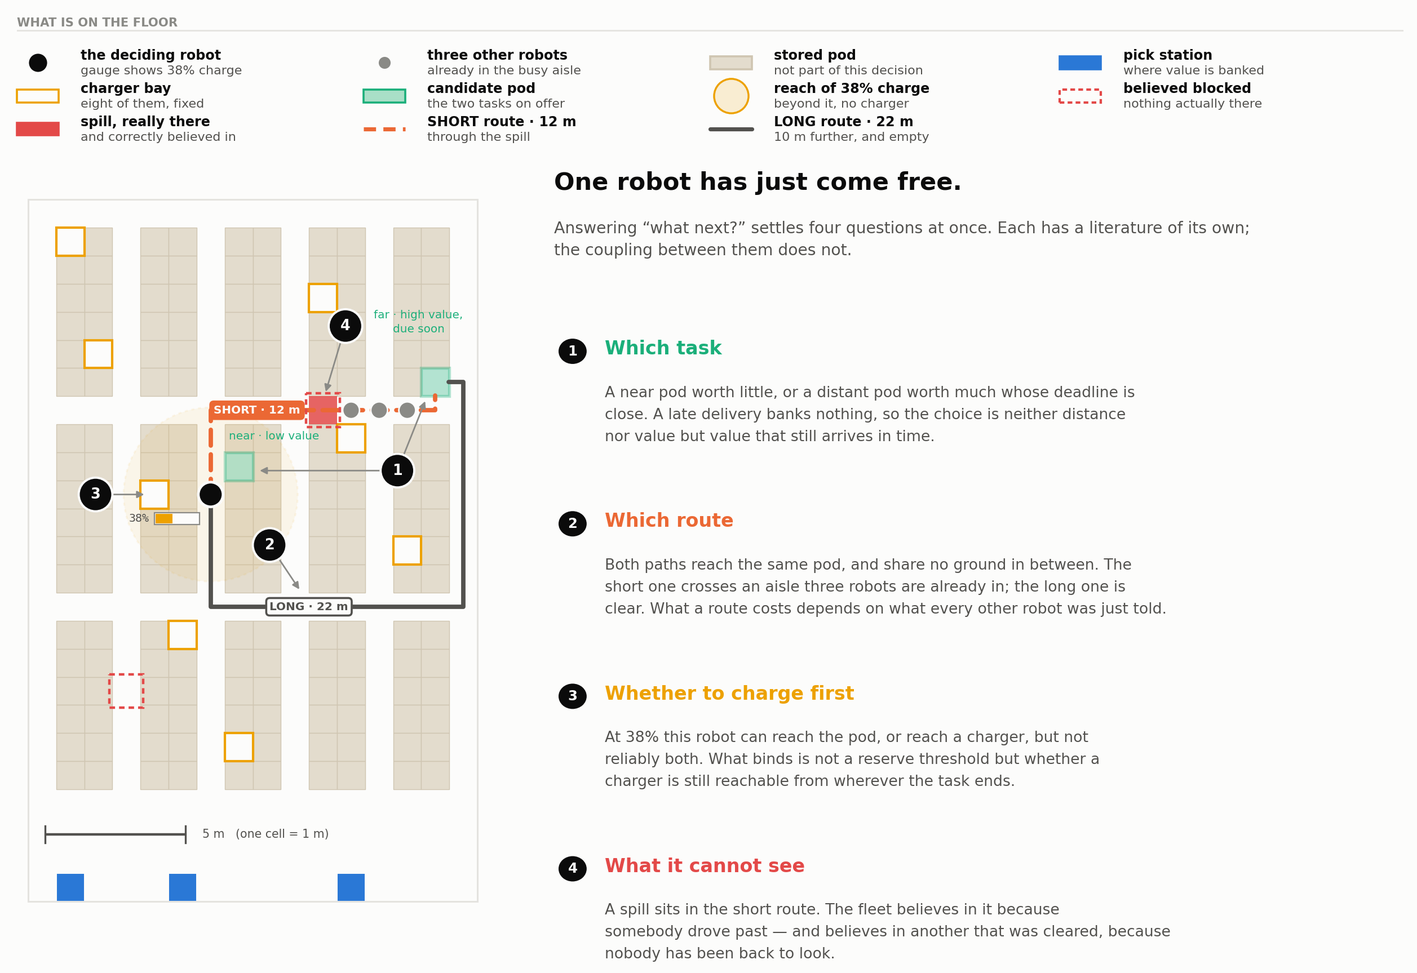
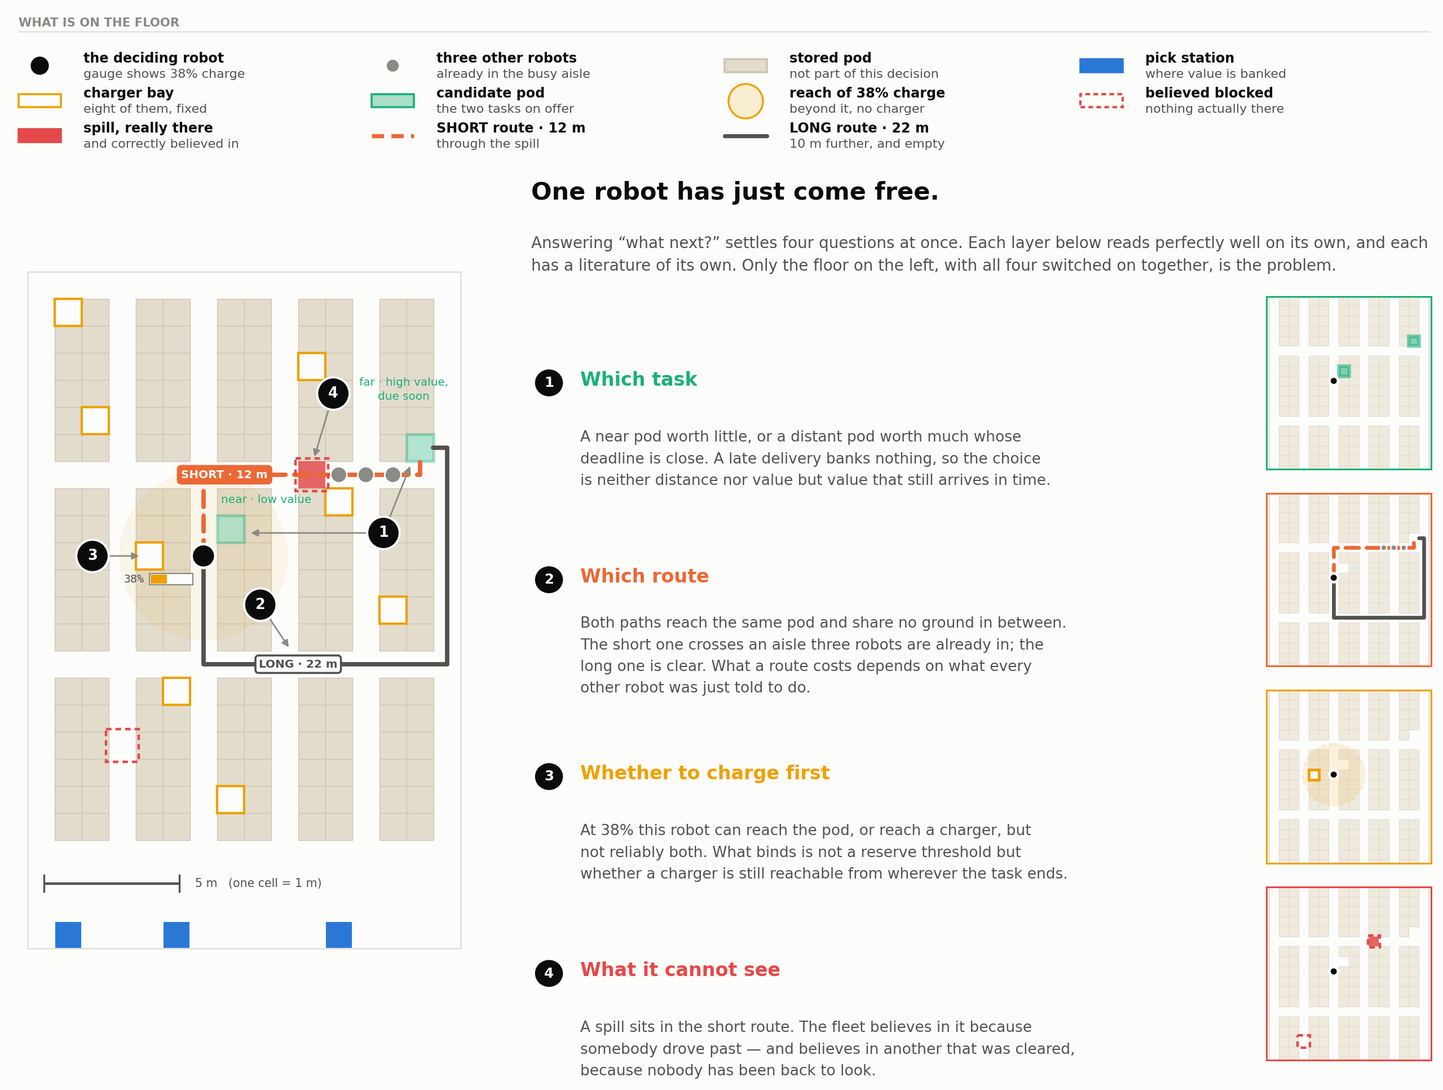
Figure 1: a layer view inside the one figure
The floor is now painted by a single function taking a set of layer names
(rack, zone, cells, tasks, belief, routes, robot, gauge, badges, plates), so
the composite and the per-question panels come from the same code and cannot
drift apart.

Each of the four questions on the right gains a small panel showing only its
own layer, over a ghosted floor, cropped to the region where anything
happens. That makes the figure argue its claim instead of asserting it: every
layer reads comfortably on its own -- each is a literature of its own -- and
only the large panel, with all four switched on at once, is the problem the
planner is actually handed.

Still one figure, one caption, one number in the register.

diff --git a/scripts/make_paper_figures.py b/scripts/make_paper_figures.py
@@ -345,21 +345,23 @@ def fig_coupled():
     vertical aisles every third column, cross-aisles at y = 0, 7, 14 and 21-23, three pick stations
     on the bottom row, eight charger bays. One cell is one metre.
 
-    The figure is built in named layers, lowest first, and nothing is drawn out of order:
+    The floor is drawn by ONE function, `floor(ax, show, ...)`, which paints a named subset of the
+    layers in a fixed order:
 
-        L_RACK   racks and the floor outline
-        L_ZONE   the reachable-charge disc
-        L_CELL   stations, bays, candidate pods, the spill
-        L_ROUTE  the two routes
-        L_MARK   robots and belief outlines
-        L_LEAD   badge leader arrows
-        L_BADGE  the numbered badges
-        L_PLATE  route name plates and the two pod tags
+        rack    racks and the floor outline          routes  the two routes
+        zone    the reachable-charge disc            robot   the deciding robot and its gauge
+        cells   stations and charger bays            badges  the numbered leaders
+        tasks   the two candidate pods               plates  route name plates and pod tags
+        belief  the spill, and the phantom
 
-    The two routes are disjoint. They share their first cell and their last and touch nowhere
-    else, which is possible only because the target pod at (14, 6) has two aisle faces -- the
-    cross-aisle above it and the right-hand aisle beside it. Every object type is named once in
-    the key across the top, so the floor itself carries almost no text.
+    The large panel asks for everything. Each of the four questions on the right also gets its own
+    small panel showing that question's layer ALONE, over a ghosted floor. That is the figure's
+    argument made visible: each layer is a literature of its own and reads perfectly well by itself;
+    only the large panel, where they are all switched on at once, shows what has to be decided.
+
+    The two routes are disjoint. They share their first cell and their last and touch nowhere else,
+    which is possible only because the target pod at (14, 6) has two aisle faces -- the cross-aisle
+    above it and the right-hand aisle beside it.
     """
     from matplotlib.patches import Rectangle, Circle, FancyArrowPatch
 
@@ -377,6 +379,10 @@ def fig_coupled():
     SPILL = (10, 7)         # a real obstruction, on the busy leg
     PHANTOM = (3, 17)       # believed blocked, actually clear
     OTHERS = [(11, 7), (12, 7), (13, 7)]
+    BAY = (4, 10)           # the nearest charger to the deciding robot
+
+    busy = [HOME, (6, 7), (14, 7), FAR]
+    clear = [HOME, (6, 14), (15, 14), (15, 6), FAR]
 
     def is_hw(x, y):
         return x in aisle_x or y in cross_y
@@ -384,110 +390,114 @@ def fig_coupled():
     def c(x, y):
         return (x + .5, y + .5)
 
-    fig = plt.figure(figsize=(12.6, 8.4))
-    kx = fig.add_axes([0.014, 0.850, 0.976, 0.140])     # object key, across the top
-    ax = fig.add_axes([0.010, 0.015, 0.348, 0.810])     # the floor
-    tx = fig.add_axes([0.392, 0.015, 0.600, 0.810])     # the four questions
+    def metres(pts):
+        return sum(abs(a[0] - b[0]) + abs(a[1] - b[1]) for a, b in zip(pts, pts[1:]))
+
+    M_BUSY, M_CLEAR = metres(busy), metres(clear)
+
+    # ------------------------------------------------------------------ one floor, many subsets
+    def floor(ax, show, ghost=False, crop=None):
+        """Paint the named layers, lowest first. `ghost` fades the racks so a single layer reads."""
+        rack_fc = "#efeade" if ghost else RACK
+        rack_ec = "#e5dfd0" if ghost else RACK_E
+        for y in range(H):
+            for x in range(W):
+                if not is_hw(x, y) and (x, y) not in (NEAR, FAR):
+                    ax.add_patch(Rectangle((x, y), 1, 1, fc=rack_fc, ec=rack_ec, lw=.5,
+                                           zorder=L_RACK))
+        ax.add_patch(Rectangle((0, 0), W, H, fc="none", ec=GRID, lw=1.1, zorder=L_CELL + 1))
+
+        if "zone" in show:
+            ax.add_patch(Circle(c(*HOME), 3.1, fc=C4, alpha=.07 if not ghost else .12, ec=C4,
+                                lw=1.2, ls=(0, (1.6, 2.0)), zorder=L_ZONE))
+        if "cells" in show:
+            for p in stations:
+                ax.add_patch(Rectangle(p, 1, 1, fc=C1, ec=SURFACE, lw=.7, zorder=L_CELL))
+            for p in bays:
+                ax.add_patch(Rectangle(p, 1, 1, fc=SURFACE, ec=C4, lw=1.5, zorder=L_CELL))
+        if "bay" in show:
+            ax.add_patch(Rectangle(BAY, 1, 1, fc=SURFACE, ec=C4, lw=1.8, zorder=L_CELL))
+        if "tasks" in show:
+            for p in (NEAR, FAR):
+                ax.add_patch(Rectangle(p, 1, 1, fc=C3, alpha=.55 if ghost else .32, ec=C3,
+                                       lw=2.4 if ghost else 1.9, zorder=L_CELL))
+        if "belief" in show:
+            ax.add_patch(Rectangle(SPILL, 1, 1, fc=BAD, alpha=.85, ec="none", zorder=L_CELL))
+            for p in (SPILL, PHANTOM):
+                ax.add_patch(Rectangle((p[0] - .1, p[1] - .1), 1.2, 1.2, fc="none", ec=BAD,
+                                       lw=1.6, ls=(0, (2.2, 1.6)), zorder=L_MARK))
+        if "routes" in show:
+            for pts, col, dashed in ((busy, C2, True), (clear, INK2, False)):
+                xy = [c(*p) for p in pts]
+                (ax_, ay_), (bx_, by_) = xy[-2], xy[-1]      # stop at the face, not the centre
+                xy[-1] = (bx_ + (0.48 if ax_ > bx_ else -0.48 if ax_ < bx_ else 0),
+                          by_ + (0.48 if ay_ > by_ else -0.48 if ay_ < by_ else 0))
+                ax.plot([p[0] for p in xy], [p[1] for p in xy], color=col,
+                        lw=2.8 if not ghost else 2.4,
+                        ls=(0, (3.6, 2.0)) if dashed else "solid", zorder=L_ROUTE,
+                        solid_capstyle="round", dash_capstyle="round")
+            for p in OTHERS:
+                ax.add_patch(Circle(c(*p), .30, fc=INK3, ec=SURFACE, lw=1.0, zorder=L_MARK))
+        if "robot" in show:
+            ax.add_patch(Circle(c(*HOME), .44, fc=INK, ec=SURFACE, lw=1.7, zorder=L_MARK + 1))
+        if "gauge" in show:
+            ax.add_patch(Rectangle((4.50, 11.15), 1.60, .42, fc=SURFACE, ec=INK3, lw=.8,
+                                   zorder=L_MARK + 1))
+            ax.add_patch(Rectangle((4.54, 11.19), 1.60 * .38, .34, fc=C4, ec="none",
+                                   zorder=L_MARK + 2))
+            ax.text(4.30, 11.36, "38%", ha="right", va="center", fontsize=7.2, color=INK2,
+                    zorder=L_MARK + 2, fontfamily="monospace")
+        if "badges" in show:
+            for n, at, tgt in ((1, (13.15, 9.65), (8.08, 9.65)),
+                               (2, (8.6, 12.3), (9.75, 14.02)),
+                               (3, (2.4, 10.5), (4.30, 10.50)),
+                               (4, (11.3, 4.5), (10.55, 7.00))):
+                ax.add_patch(FancyArrowPatch(at, tgt, arrowstyle="-|>", mutation_scale=9,
+                                             color=INK3, lw=1.0, shrinkA=10, shrinkB=3,
+                                             zorder=L_LEAD))
+                ax.add_patch(Circle(at, .60, fc=INK, ec=SURFACE, lw=1.4, zorder=L_BADGE))
+                ax.text(at[0], at[1], str(n), ha="center", va="center", color=SURFACE,
+                        fontsize=9.2, fontweight="bold", zorder=L_BADGE + 1)
+            ax.add_patch(FancyArrowPatch((13.15, 9.65), (14.20, 7.02), arrowstyle="-|>",
+                                         mutation_scale=9, color=INK3, lw=1.0, shrinkA=10,
+                                         shrinkB=3, zorder=L_LEAD))
+        if "plates" in show:
+            def plate(x, y, col, text, filled):
+                ax.text(x, y, text, fontsize=7.2, fontweight="bold", ha="center", va="center",
+                        color=SURFACE if filled else col, zorder=L_PLATE,
+                        bbox=dict(boxstyle="round,pad=0.30", fc=col if filled else SURFACE,
+                                  ec=col, lw=1.3))
+            plate(7.28, 7.50, C2, "SHORT · %d m" % M_BUSY, True)
+            plate(10.00, 14.50, INK2, "LONG · %d m" % M_CLEAR, False)
+            ax.text(7.15, 8.42, "near · low value", fontsize=7.2, color=C3, ha="left",
+                    va="center", zorder=L_PLATE)
+            ax.text(13.90, 4.35, "far · high value,\ndue soon", fontsize=7.2, color=C3,
+                    ha="center", va="center", zorder=L_PLATE, linespacing=1.4)
+        if "scale" in show:
+            ax.plot([0.6, 5.6], [22.6, 22.6], color=INK2, lw=1.6, solid_capstyle="butt",
+                    zorder=L_PLATE)
+            for xx in (0.6, 5.6):
+                ax.plot([xx, xx], [22.3, 22.9], color=INK2, lw=1.2, zorder=L_PLATE)
+            ax.text(6.2, 22.6, "5 m   (one cell = 1 m)", va="center", fontsize=7.4, color=INK2,
+                    zorder=L_PLATE)
+
+        x0, x1, y0, y1 = crop or (-0.6, W + 1.0, -0.6, H + 0.6)
+        ax.set_xlim(x0, x1)
+        ax.set_ylim(y1, y0)
+        ax.set_aspect("equal")
+        ax.axis("off")
+
+    fig = plt.figure(figsize=(12.8, 9.4))
+    kx = fig.add_axes([0.013, 0.856, 0.978, 0.132])     # object key, across the top
+    ax = fig.add_axes([0.008, 0.014, 0.330, 0.818])     # the whole floor, every layer on
+    tx = fig.add_axes([0.368, 0.014, 0.624, 0.818])     # the four questions
     for a in (kx, tx):
         a.axis("off")
         a.set_xlim(0, 1)
         a.set_ylim(0, 1)
 
-    # ================================================================ layer 1: racks and outline
-    for y in range(H):
-        for x in range(W):
-            if not is_hw(x, y) and (x, y) not in (NEAR, FAR):
-                ax.add_patch(Rectangle((x, y), 1, 1, fc=RACK, ec=RACK_E, lw=.5, zorder=L_RACK))
-    ax.add_patch(Rectangle((0, 0), W, H, fc="none", ec=GRID, lw=1.1, zorder=L_CELL + 1))
-
-    # ================================================================ layer 2: the reachable disc
-    ax.add_patch(Circle(c(*HOME), 3.1, fc=C4, alpha=.07, ec=C4, lw=1.2,
-                        ls=(0, (1.6, 2.0)), zorder=L_ZONE))
-
-    # ================================================================ layer 3: cells that matter
-    for p in stations:
-        ax.add_patch(Rectangle(p, 1, 1, fc=C1, ec=SURFACE, lw=.7, zorder=L_CELL))
-    for p in bays:
-        ax.add_patch(Rectangle(p, 1, 1, fc=SURFACE, ec=C4, lw=1.5, zorder=L_CELL))
-    for p in (NEAR, FAR):
-        ax.add_patch(Rectangle(p, 1, 1, fc=C3, alpha=.32, ec=C3, lw=1.9, zorder=L_CELL))
-    ax.add_patch(Rectangle(SPILL, 1, 1, fc=BAD, alpha=.85, ec="none", zorder=L_CELL))
-
-    # ================================================================ layer 5: the two routes
-    # Disjoint by construction: the busy one runs east along the y = 7 cross-aisle and turns down
-    # into the pod's top face; the clear one runs south, east along y = 14, then north up the
-    # x = 15 aisle to the pod's right face. They meet only at the robot and at the pod.
-    busy = [HOME, (6, 7), (14, 7), FAR]
-    clear = [HOME, (6, 14), (15, 14), (15, 6), FAR]
-
-    def draw(pts, col, dashed):
-        """Draw the route, stopping at the face of the last cell rather than its centre."""
-        xy = [c(*p) for p in pts]
-        (ax_, ay_), (bx_, by_) = xy[-2], xy[-1]
-        xy[-1] = (bx_ + (0.48 if ax_ > bx_ else -0.48 if ax_ < bx_ else 0),
-                  by_ + (0.48 if ay_ > by_ else -0.48 if ay_ < by_ else 0))
-        ax.plot([p[0] for p in xy], [p[1] for p in xy], color=col, lw=2.8,
-                ls=(0, (3.6, 2.0)) if dashed else "solid", zorder=L_ROUTE,
-                solid_capstyle="round", dash_capstyle="round")
-
-    def metres(pts):
-        return sum(abs(a[0] - b[0]) + abs(a[1] - b[1]) for a, b in zip(pts, pts[1:]))
-
-    draw(busy, C2, True)
-    draw(clear, INK2, False)
-
-    # ================================================================ layer 7: robots, beliefs
-    for p in OTHERS:
-        ax.add_patch(Circle(c(*p), .30, fc=INK3, ec=SURFACE, lw=1.0, zorder=L_MARK))
-    for p in (SPILL, PHANTOM):
-        ax.add_patch(Rectangle((p[0] - .1, p[1] - .1), 1.2, 1.2, fc="none", ec=BAD, lw=1.6,
-                               ls=(0, (2.2, 1.6)), zorder=L_MARK))
-    ax.add_patch(Circle(c(*HOME), .44, fc=INK, ec=SURFACE, lw=1.7, zorder=L_MARK + 1))
-    ax.add_patch(Rectangle((4.50, 11.15), 1.60, .42, fc=SURFACE, ec=INK3, lw=.8,
-                           zorder=L_MARK + 1))
-    ax.add_patch(Rectangle((4.54, 11.19), 1.60 * .38, .34, fc=C4, ec="none", zorder=L_MARK + 2))
-    ax.text(4.30, 11.36, "38%", ha="right", va="center", fontsize=7.2, color=INK2,
-            zorder=L_MARK + 2, fontfamily="monospace")
-
-    # ================================================================ layers 8 & 11: the badges
-    for n, at, tgt in ((1, (13.15, 9.65), (8.08, 9.65)),
-                       (2, (8.6, 12.3), (9.75, 14.02)),
-                       (3, (2.4, 10.5), (4.30, 10.50)),
-                       (4, (11.3, 4.5), (10.55, 7.00))):
-        ax.add_patch(FancyArrowPatch(at, tgt, arrowstyle="-|>", mutation_scale=9, color=INK3,
-                                     lw=1.0, shrinkA=10, shrinkB=3, zorder=L_LEAD))
-        ax.add_patch(Circle(at, .60, fc=INK, ec=SURFACE, lw=1.4, zorder=L_BADGE))
-        ax.text(at[0], at[1], str(n), ha="center", va="center", color=SURFACE, fontsize=9.2,
-                fontweight="bold", zorder=L_BADGE + 1)
-    ax.add_patch(FancyArrowPatch((13.15, 9.65), (14.20, 7.02), arrowstyle="-|>",
-                                 mutation_scale=9, color=INK3, lw=1.0, shrinkA=10, shrinkB=3,
-                                 zorder=L_LEAD))
-
-    # ================================================================ layer 13: plates and tags
-    def plate(x, y, col, text, filled):
-        ax.text(x, y, text, fontsize=7.2, fontweight="bold", ha="center", va="center",
-                color=SURFACE if filled else col, zorder=L_PLATE,
-                bbox=dict(boxstyle="round,pad=0.30", fc=col if filled else SURFACE,
-                          ec=col, lw=1.3))
-
-    plate(8.15, 7.50, C2, "SHORT · %d m" % metres(busy), True)
-    plate(10.00, 14.50, INK2, "LONG · %d m" % metres(clear), False)
-    ax.text(7.15, 8.42, "near · low value", fontsize=7.2, color=C3, ha="left",
-            va="center", zorder=L_PLATE)
-    ax.text(13.90, 4.35, "far · high value,\ndue soon", fontsize=7.2, color=C3,
-            ha="center", va="center", zorder=L_PLATE, linespacing=1.4)
-
-    # scale bar, in the empty cross-aisle band at y = 21-23
-    ax.plot([0.6, 5.6], [22.6, 22.6], color=INK2, lw=1.6, solid_capstyle="butt", zorder=L_PLATE)
-    for xx in (0.6, 5.6):
-        ax.plot([xx, xx], [22.3, 22.9], color=INK2, lw=1.2, zorder=L_PLATE)
-    ax.text(6.2, 22.6, "5 m   (one cell = 1 m)", va="center", fontsize=7.4, color=INK2,
-            zorder=L_PLATE)
-
-    ax.set_xlim(-0.6, W + 1.0)
-    ax.set_ylim(H + 0.6, -0.6)
-    ax.set_aspect("equal")
-    ax.axis("off")
+    floor(ax, {"zone", "cells", "tasks", "belief", "routes", "robot", "gauge", "badges",
+               "plates", "scale"})
 
     # ==================================================== the key: every object named, up top
     kx.text(0, 0.955, "WHAT IS ON THE FLOOR", fontsize=7.6, fontweight="bold", color=INK3,
@@ -498,7 +508,7 @@ def fig_coupled():
     ROWY = (0.610, 0.360, 0.110)
 
     def swatch(kind, x, y, col):
-        """Draw one key mark at (x, y) in key-axes coordinates. Marks are 0.030 wide."""
+        """One key mark at (x, y) in key-axes coordinates. Marks are 0.030 wide."""
         if kind == "rect":
             kx.add_patch(Rectangle((x, y - .048), .030, .096, fc=col[0], ec=col[1], lw=1.3,
                                    transform=kx.transAxes, clip_on=False))
@@ -506,6 +516,7 @@ def fig_coupled():
             kx.add_patch(Rectangle((x, y - .048), .030, .096, fc="none", ec=col[1], lw=1.5,
                                    ls=(0, (2.0, 1.4)), transform=kx.transAxes, clip_on=False))
         elif kind in ("disc", "disc_s"):
+            # Circle() in this wide, short axes renders as an ellipse; markers stay round.
             kx.plot([x + .015], [y], transform=kx.transAxes, marker="o", clip_on=False,
                     ms=13 if kind == "disc" else 9, mfc=col[0], mec=col[1], mew=1.4)
         elif kind == "zone":
@@ -528,9 +539,9 @@ def fig_coupled():
         (2, 1, "zone", (C4, C4), "reach of 38% charge", "beyond it, no charger"),
         (3, 1, "dashed", (None, BAD), "believed blocked", "nothing actually there"),
         (0, 2, "rect", (BAD, BAD), "spill, really there", "and correctly believed in"),
-        (1, 2, "dash", (None, C2), "SHORT route · %d m" % metres(busy), "through the spill"),
-        (2, 2, "solid", (None, INK2), "LONG route · %d m" % metres(clear),
-         "%d m further, and empty" % (metres(clear) - metres(busy))),
+        (1, 2, "dash", (None, C2), "SHORT route · %d m" % M_BUSY, "through the spill"),
+        (2, 2, "solid", (None, INK2), "LONG route · %d m" % M_CLEAR,
+         "%d m further, and empty" % (M_CLEAR - M_BUSY)),
     ]
     for col, row, kind, cols, name, note in ITEMS:
         x, y = COLX[col], ROWY[row]
@@ -540,40 +551,52 @@ def fig_coupled():
         kx.text(x + .046, y - .062, note, transform=kx.transAxes, fontsize=8.0, color=INK2,
                 va="center")
 
-    # ==================================================== the four questions
+    # ==================================================== the four questions, each with its layer
     tx.text(0, 0.995, "One robot has just come free.", transform=tx.transAxes,
             fontsize=15.5, fontweight="bold", color=INK, va="top")
-    tx.text(0, 0.930, "Answering “what next?” settles four questions at once. Each has "
-                      "a literature of its own;\nthe coupling between them does not.",
-            transform=tx.transAxes, fontsize=10.2, color=INK2, va="top", linespacing=1.5)
+    tx.text(0, 0.932, "Answering “what next?” settles four questions at once. Each layer below "
+                      "reads perfectly well on its own, and each\nhas a literature of its own. "
+                      "Only the floor on the left, with all four switched on together, is the "
+                      "problem.",
+            transform=tx.transAxes, fontsize=10.0, color=INK2, va="top", linespacing=1.55)
 
     items = [
-        (0.760, 1, "Which task", C3,
-         "A near pod worth little, or a distant pod worth much whose deadline is\n"
-         "close. A late delivery banks nothing, so the choice is neither distance\n"
-         "nor value but value that still arrives in time."),
-        (0.535, 2, "Which route", C2,
-         "Both paths reach the same pod, and share no ground in between. The\n"
-         "short one crosses an aisle three robots are already in; the long one is\n"
-         "clear. What a route costs depends on what every other robot was just told."),
-        (0.310, 3, "Whether to charge first", C4,
-         "At 38% this robot can reach the pod, or reach a charger, but not\n"
-         "reliably both. What binds is not a reserve threshold but whether a\n"
-         "charger is still reachable from wherever the task ends."),
-        (0.085, 4, "What it cannot see", BAD,
+        (0.762, 1, "Which task", C3, {"tasks", "robot"},
+         "A near pod worth little, or a distant pod worth much whose\n"
+         "deadline is close. A late delivery banks nothing, so the choice\n"
+         "is neither distance nor value but value that still arrives in time."),
+        (0.535, 2, "Which route", C2, {"routes", "robot"},
+         "Both paths reach the same pod and share no ground in between.\n"
+         "The short one crosses an aisle three robots are already in; the\n"
+         "long one is clear. What a route costs depends on what every\n"
+         "other robot was just told to do."),
+        (0.308, 3, "Whether to charge first", C4, {"zone", "bay", "robot"},
+         "At 38% this robot can reach the pod, or reach a charger, but\n"
+         "not reliably both. What binds is not a reserve threshold but\n"
+         "whether a charger is still reachable from wherever the task ends."),
+        (0.081, 4, "What it cannot see", BAD, {"belief", "robot"},
          "A spill sits in the short route. The fleet believes in it because\n"
-         "somebody drove past — and believes in another that was cleared, because\n"
-         "nobody has been back to look."),
+         "somebody drove past — and believes in another that was cleared,\n"
+         "because nobody has been back to look."),
     ]
-    for y, n, title, col, body in items:
-        tx.add_patch(Circle((0.022, y), 0.0165, fc=INK, ec="none", transform=tx.transAxes,
+    TW, TH = 0.115, 0.165            # layer-panel size, as a fraction of the figure
+    for ty, n, title, col, layers, body in items:
+        tx.add_patch(Circle((0.020, ty), 0.0155, fc=INK, ec="none", transform=tx.transAxes,
                             clip_on=False, zorder=5))
-        tx.text(0.022, y, str(n), transform=tx.transAxes, ha="center", va="center",
+        tx.text(0.020, ty, str(n), transform=tx.transAxes, ha="center", va="center",
                 color=SURFACE, fontsize=8.8, fontweight="bold", zorder=6)
-        tx.text(0.060, y + 0.003, title, transform=tx.transAxes, fontsize=12,
+        tx.text(0.055, ty + 0.003, title, transform=tx.transAxes, fontsize=12,
                 fontweight="bold", color=col, va="center")
-        tx.text(0.060, y - 0.083, body, transform=tx.transAxes, fontsize=9.6, color=INK2,
-                va="center", linespacing=1.65)
+        tx.text(0.055, ty - 0.088, body, transform=tx.transAxes, fontsize=9.5, color=INK2,
+                va="center", linespacing=1.62)
+        # this question's layer, alone, over a ghosted floor -- cropped to where the action is
+        cy = 0.014 + ty * 0.818
+        th = fig.add_axes([0.992 - TW, cy - TH / 2, TW, TH])
+        floor(th, layers, ghost=True, crop=(-0.3, W + 0.3, 2.0, 19.4))
+        for s in th.spines.values():
+            s.set_visible(False)
+        th.add_patch(Rectangle((-0.25, 2.05), W + 0.5, 17.3, fc="none", ec=col, lw=1.1,
+                               zorder=20, clip_on=False))
 
     save(fig, "fig_coupled.png")
 

diff --git a/docs/PAPER_DRAFT.md b/docs/PAPER_DRAFT.md
@@ -74,8 +74,12 @@ argue such audits should be routine, because most of our own earlier findings di
 
 *Figure 1. The four decisions one free robot couples. Which task to take, which route to take, whether
 to charge first, and what the fleet cannot see are each a literature of their own; answering "what
-next?" settles all four at once, and the coupling between them is what this paper is about. The floor
-is the shipped dense layout read off the simulator, not a sketch: 16 x 25 cells, one metre each.*
+next?" settles all four at once, and the coupling between them is what this paper is about. Each
+question's small panel shows that layer alone over a ghosted floor — every one of them reads
+comfortably by itself, which is the point; only the large panel, with all four switched on together,
+is the problem the planner is given. The floor is the shipped dense layout read off the simulator,
+not a sketch: 16 × 25 cells, one metre each, aisles every third column and cross-aisles at
+y = 0, 7, 14 and 21–23.*
 
 **Contributions.**
 1. **A rollout sequencer plus a model-predictive tuner** — the shipped system — worth

diff --git a/docs/FIGURE_SPECS.md b/docs/FIGURE_SPECS.md
@@ -250,3 +250,10 @@ Regenerate Fig. 4 after the shipped-system re-lead so its callouts match the tex
 - One correction fell out of building Table 1: the paper described the high-disturbance arm as "10×
   the calibrated rate". The two rates actually run are 0.002/step and 0.037/step, so the multiplier is
   ≈18×. §5.6 and §5.16 now state both absolute rates.
+
+**2026-09-07, later — Fig. 1 gains a layer view without becoming several figures.** The floor is now
+painted by one function taking a set of layer names, so the composite and four single-layer panels
+come from the same code and cannot drift apart. Each question on the right carries its own panel
+showing only its layer, over a ghosted floor, cropped to where the action is. This is the figure's
+claim made visible rather than only asserted: each layer is legible alone, and only their
+superposition is hard.
